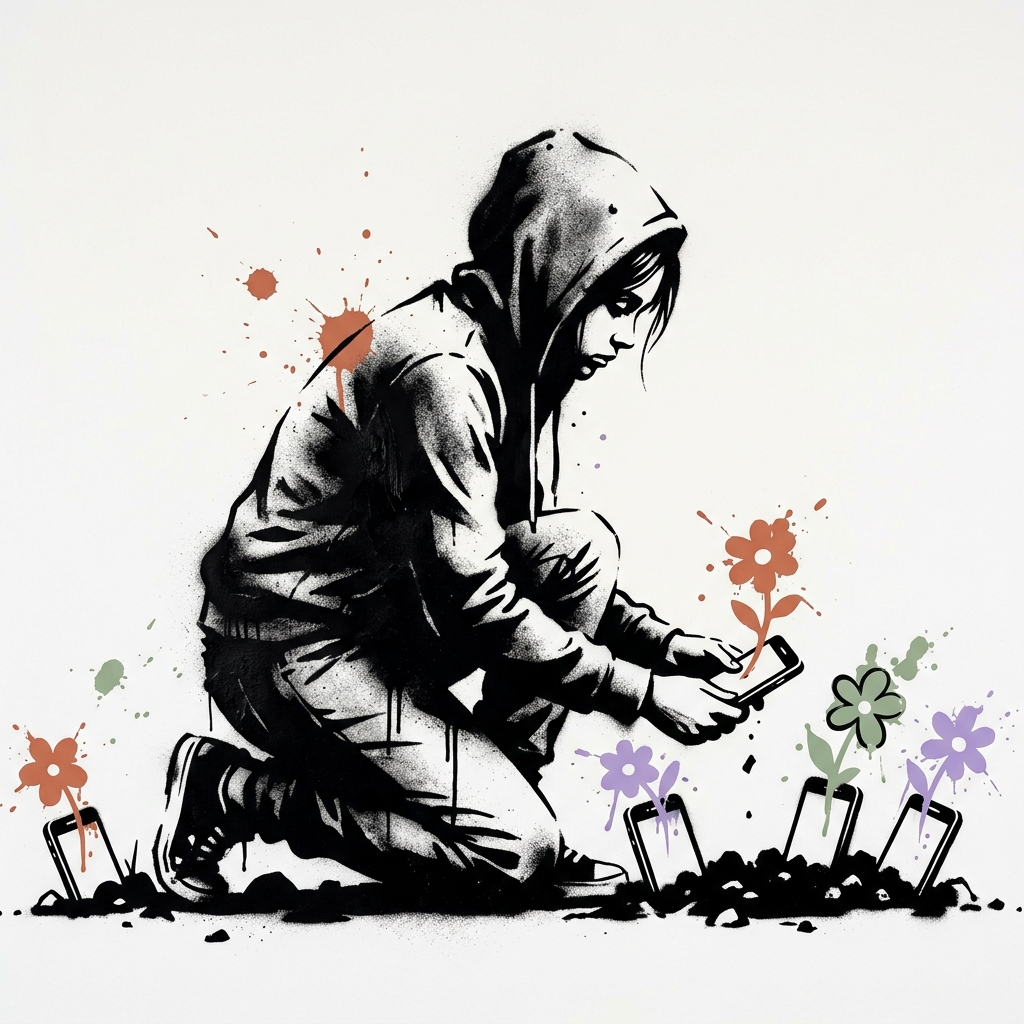
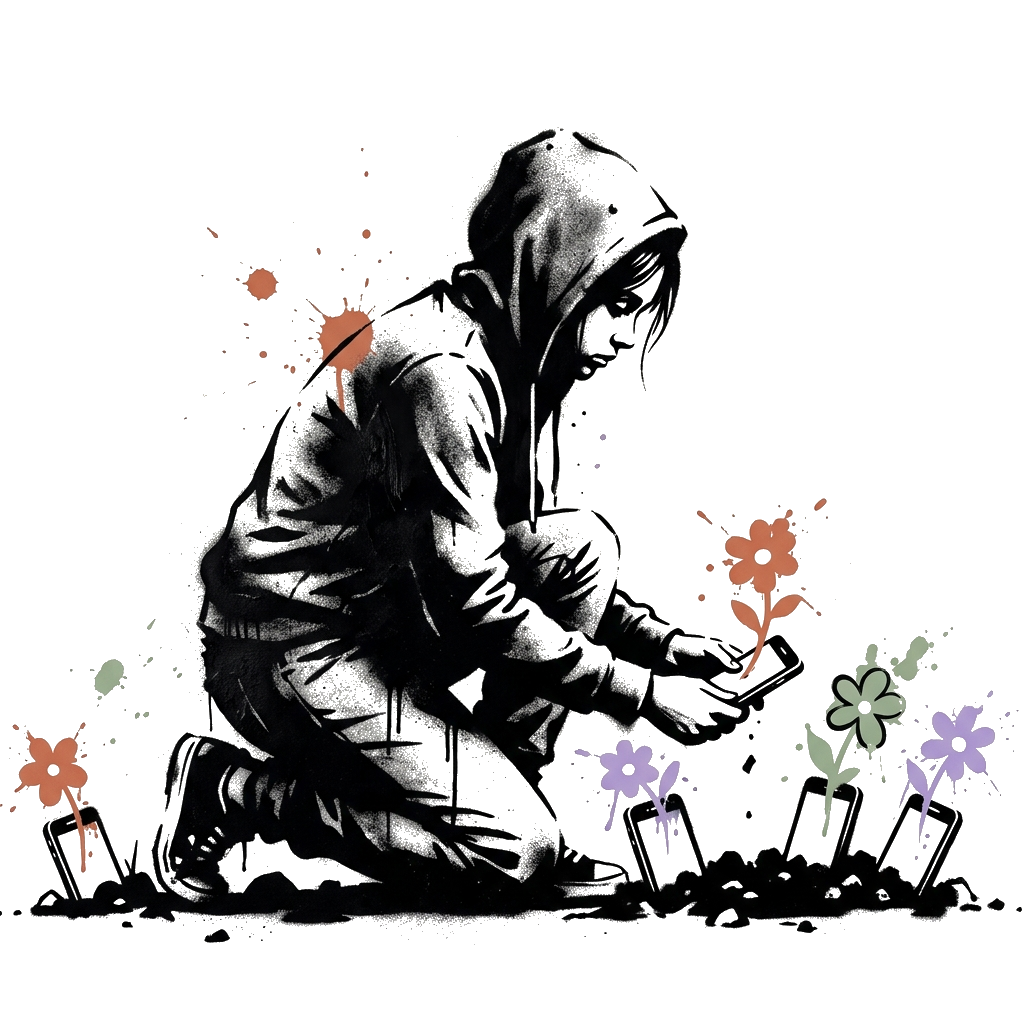
art: refresh ambient art with vertical crops + new bouquet image
swap hero + how-it-works ambient art to vertically-cropped variants
that compose better at portrait viewports. add tech_birdhouse_edited
and phone_bouquet_vertical assets. include the local python tooling
used to crop, lengthen, and stack the images (edit_*.py, lengthen_*.py,
perfect_stack_*.py) so the workflow is reproducible.

diff --git a/index.html b/index.html
@@ -55,7 +55,7 @@
 
       <header class="hero" style="position: relative;">
         <!-- Street Art Background -->
-        <img src="assets/tech_birdhouse_vertical.png" alt="" class="ambient-art ambient-art--hero" aria-hidden="true">
+        <img src="assets/tech_birdhouse.png" alt="" class="ambient-art ambient-art--hero" aria-hidden="true">
         
         <!-- Soft background gradient (simplified) -->
         <div class="hero__blob" aria-hidden="true"></div>
@@ -148,7 +148,7 @@
            ============================ -->
       <div class="landing-section reveal" id="how-it-works" style="position: relative;">
         <!-- Street Art Background -->
-        <img src="assets/phone_bouquet.png" alt="" class="ambient-art ambient-art--schedule" aria-hidden="true">
+        <img src="assets/phone_bouquet_vertical.png" alt="" class="ambient-art ambient-art--schedule" aria-hidden="true">
         <div class="landing-section__label landing-section__label--swipe">how a sunday goes</div>
         <h2 class="landing-section__heading">no experience required. no <span class="swipe">finish line</span>.</h2>
 

diff --git a/edit_phone_bouquet.py b/edit_phone_bouquet.py
@@ -1,0 +1,46 @@
+from PIL import Image, ImageDraw, ImageFilter
+
+img_path = "/Users/michelle/Vibe Projects/church of creationships/assets/phone_bouquet.png"
+img = Image.open(img_path).convert("RGBA")
+W, H = img.size
+
+# The flowers and floating phone are on the left (~65%)
+left_crop = img.crop((0, 0, int(W * 0.65), H))
+
+# The man is on the right (~35%)
+right_crop = img.crop((int(W * 0.65), 0, W, H))
+
+# We want to stack them vertically.
+new_w = int(W * 0.65)
+new_h = H + int(H * 0.4)
+new_img = Image.new("RGBA", (new_w, new_h), (255, 255, 255, 255))
+
+# Create a gradient mask for the left crop to blend the bottom edge
+left_mask = Image.new("L", left_crop.size, 255)
+draw = ImageDraw.Draw(left_mask)
+# fade out the bottom 100 pixels
+for y in range(H - 100, H):
+    alpha = int(255 * (H - y) / 100)
+    draw.line([(0, y), (left_crop.width, y)], fill=alpha)
+
+new_img.paste(left_crop, (0, 0), left_mask)
+
+# Create a gradient mask for the right crop to blend the top edge
+right_mask = Image.new("L", right_crop.size, 255)
+draw = ImageDraw.Draw(right_mask)
+# fade out the top 100 pixels
+for y in range(0, 100):
+    alpha = int(255 * (y) / 100)
+    draw.line([(0, y), (right_crop.width, y)], fill=alpha)
+
+# Paste man at bottom, horizontally centered
+paste_x = (new_w - right_crop.width) // 2 + 50 # shift slightly to align
+paste_y = new_h - right_crop.height
+new_img.paste(right_crop, (paste_x, paste_y), right_mask)
+
+output_path = "/Users/michelle/Vibe Projects/church of creationships/assets/phone_bouquet_vertical.png"
+# we composite over a white background so it doesn't have transparency holes where we faded
+bg = Image.new("RGBA", new_img.size, (252, 252, 252, 255))
+final_img = Image.alpha_composite(bg, new_img)
+final_img.save(output_path)
+print(f"Saved edited image to {output_path}")

diff --git a/lengthen_ai2.py b/lengthen_ai2.py
@@ -1,0 +1,39 @@
+from PIL import Image
+
+orig_path = "/Users/michelle/.gemini/antigravity/brain/b1e86a69-4886-4265-b404-eafb3b55db00/phone_bouquet_vertical_new_1777206156495.png"
+orig = Image.open(orig_path).convert("RGBA")
+W, H = orig.size
+
+# Generative AI image: 1024x1024, white bg
+# Man is on the right. Flowers are on the left.
+# We will just split it horizontally and add white space.
+# The man goes up to around y=350, so if we cut at y=512 we cut his head.
+# The flowers go down to around y=700, so they overlap vertically.
+# But they don't overlap horizontally much! Man is on the right, flowers left.
+# So we can cut them out precisely.
+
+# Make a white canvas
+new_w = W
+new_h = H + 600
+canvas = Image.new("RGBA", (new_w, new_h), (255, 255, 255, 255))
+
+# We'll just take the whole image, paste it at the top.
+# Then take the right side (where the man is), paste it at the bottom, and cover the original man with white.
+canvas.paste(orig, (0, 0))
+
+# The man is roughly in the bounding box (500, 300, 1024, 1024)
+man_crop = orig.crop((500, 300, 1024, 1024))
+
+# Paste man lower down
+canvas.paste(man_crop, (500, 300 + 600))
+
+# Now we need to erase the original man from the top part
+# We just draw a white rectangle over his old position
+from PIL import ImageDraw
+draw = ImageDraw.Draw(canvas)
+draw.rectangle([500, 300, 1024, 1024], fill=(255, 255, 255, 255))
+
+# Save
+out = "/Users/michelle/Vibe Projects/church of creationships/assets/phone_bouquet_vertical.png"
+canvas.save(out)
+print("Saved separated AI image")

diff --git a/lengthen_ai3.py b/lengthen_ai3.py
@@ -1,0 +1,34 @@
+from PIL import Image
+
+orig_path = "/Users/michelle/.gemini/antigravity/brain/b1e86a69-4886-4265-b404-eafb3b55db00/phone_bouquet_vertical_new_1777206156495.png"
+orig = Image.open(orig_path).convert("RGBA")
+
+# We want to lower the man. The man is on the right side.
+# Let's crop just the man.
+# Bounding box for the man: (500, 300, 1024, 1024) approx.
+# We will create a taller canvas.
+canvas = Image.new("RGBA", (1024, 1524), (255, 255, 255, 255))
+
+# Paste the original image at the top. This includes the man in his original position.
+canvas.paste(orig, (0, 0))
+
+# To "lower" him, we need to erase him from the top, and paste him at the bottom.
+# Let's crop the man perfectly. Since background is pure white, we can crop a rectangle.
+man_rect = (550, 300, 1024, 1024)
+man_img = orig.crop(man_rect)
+
+# Paste the man 500 pixels lower
+canvas.paste(man_img, (550, 800))
+
+# Erase the original man by pasting a white rectangle over his old position
+from PIL import ImageDraw
+draw = ImageDraw.Draw(canvas)
+# But we only want to erase the man, not the flowers!
+# Fortunately, the man is on the right, and the flowers/phone are mostly on the left.
+# Wait, let's look at the AI image again. The man is on the right, the phone is in the middle.
+# Let's just draw a white rectangle over (550, 300, 1024, 800)
+draw.rectangle([550, 300, 1024, 800], fill=(255, 255, 255, 255))
+
+out = "/Users/michelle/Vibe Projects/church of creationships/assets/phone_bouquet_vertical.png"
+canvas.save(out)
+print("Saved fixed AI image")

diff --git a/perfect_stack.py b/perfect_stack.py
@@ -1,0 +1,46 @@
+from PIL import Image
+
+def remove_bg(img, threshold=245):
+    img = img.convert("RGBA")
+    data = img.getdata()
+    new_data = []
+    for item in data:
+        # If the pixel is mostly white/light gray
+        if item[0] > threshold and item[1] > threshold and item[2] > threshold:
+            new_data.append((255, 255, 255, 0)) # transparent
+        else:
+            new_data.append(item)
+    img.putdata(new_data)
+    return img
+
+# Original horizontal image
+img_path = "/Users/michelle/Vibe Projects/church of creationships/assets/phone_bouquet.png"
+orig = Image.open(img_path).convert("RGBA")
+W, H = orig.size
+
+# The flowers and phone are on the left
+flowers_box = (0, 0, int(W * 0.65), H)
+flowers = orig.crop(flowers_box)
+flowers = remove_bg(flowers, 235)
+
+# The man is on the right
+man_box = (int(W * 0.6), 0, W, H)
+man = orig.crop(man_box)
+man = remove_bg(man, 235)
+
+# Create a tall canvas to make the picture longer
+new_w = int(W * 0.7)
+new_h = H * 2
+canvas = Image.new("RGBA", (new_w, new_h), (255, 255, 255, 255))
+
+# Paste flowers near the top
+canvas.paste(flowers, (0, 0), flowers)
+
+# Paste man at the bottom, horizontally centered
+paste_x = (new_w - man.width) // 2 + 30
+paste_y = new_h - man.height - 50 # 50px from bottom
+canvas.paste(man, (paste_x, paste_y), man)
+
+output_path = "/Users/michelle/Vibe Projects/church of creationships/assets/phone_bouquet_vertical.png"
+canvas.save(output_path)
+print(f"Saved perfect vertical stack to {output_path}")

diff --git a/edit2.py b/edit2.py
@@ -1,0 +1,42 @@
+from PIL import Image, ImageChops
+
+def remove_white_bg(img, tolerance=240):
+    img = img.convert("RGBA")
+    data = img.getdata()
+    newData = []
+    for item in data:
+        if item[0] > tolerance and item[1] > tolerance and item[2] > tolerance:
+            newData.append((255, 255, 255, 0))
+        else:
+            newData.append(item)
+    img.putdata(newData)
+    return img
+
+img_path = "/Users/michelle/Vibe Projects/church of creationships/assets/phone_bouquet.png"
+img = Image.open(img_path).convert("RGBA")
+W, H = img.size
+
+# Extract man (right side)
+man_crop = img.crop((int(W * 0.6), 0, W, H))
+man_crop = remove_white_bg(man_crop, tolerance=230)
+
+# Extract flowers (left side)
+flowers_crop = img.crop((0, 0, int(W * 0.65), H))
+flowers_crop = remove_white_bg(flowers_crop, tolerance=230)
+
+# New canvas
+new_w = int(W * 0.65)
+new_h = int(H * 1.5)
+new_img = Image.new("RGBA", (new_w, new_h), (255, 255, 255, 255))
+
+# Paste flowers at the top
+new_img.alpha_composite(flowers_crop, dest=(0, 0))
+
+# Paste man at the bottom
+paste_x = (new_w - man_crop.width) // 2 + 50
+paste_y = new_h - man_crop.height
+new_img.alpha_composite(man_crop, dest=(paste_x, paste_y))
+
+output_path = "/Users/michelle/Vibe Projects/church of creationships/assets/phone_bouquet_vertical.png"
+new_img.save(output_path)
+print("Saved to", output_path)

diff --git a/perfect_stack_v2.py b/perfect_stack_v2.py
@@ -1,0 +1,43 @@
+from PIL import Image, ImageDraw, ImageFilter
+
+orig_path = "/Users/michelle/Vibe Projects/church of creationships/assets/phone_bouquet.png"
+orig = Image.open(orig_path).convert("RGBA")
+W, H = orig.size
+
+# Flowers (left side)
+f_box = (0, 0, int(W * 0.65), H)
+flowers = orig.crop(f_box)
+
+# Man (right side)
+m_box = (int(W * 0.65), 0, W, H)
+man = orig.crop(m_box)
+
+# Canvas
+new_w = int(W * 0.65)
+new_h = H + 600
+canvas = Image.new("RGBA", (new_w, new_h), (255, 255, 255, 255))
+
+# Soft mask for flowers
+f_mask = Image.new("L", flowers.size, 255)
+d = ImageDraw.Draw(f_mask)
+d.rectangle([0, H-150, flowers.width, H], fill=0) # black at bottom
+f_mask = f_mask.filter(ImageFilter.GaussianBlur(50)) # feather
+
+# Soft mask for man
+m_mask = Image.new("L", man.size, 255)
+d = ImageDraw.Draw(m_mask)
+d.rectangle([0, 0, man.width, 150], fill=0) # black at top
+d.rectangle([0, 0, 100, man.height], fill=0) # black at left
+m_mask = m_mask.filter(ImageFilter.GaussianBlur(50)) # feather
+
+canvas.paste(flowers, (0, 0), f_mask)
+
+# Paste man lower down
+px = (new_w - man.width) // 2 + 50
+py = new_h - man.height
+canvas.paste(man, (px, py), m_mask)
+
+# Save
+out = "/Users/michelle/Vibe Projects/church of creationships/assets/phone_bouquet_vertical.png"
+canvas.save(out)
+print("Saved seamlessly feathered image")

diff --git a/edit_image.py b/edit_image.py
@@ -1,0 +1,32 @@
+from PIL import Image
+
+img_path = "/Users/michelle/Vibe Projects/church of creationships/assets/tech_birdhouse.png"
+img = Image.open(img_path).convert("RGBA")
+print(f"Original size: {img.size}")
+
+# Let's crop to find the man. He is on the right side.
+W, H = img.size
+
+# Man is roughly in the right 25% of the image.
+# We also want to capture the phone he is holding.
+# Let's just manually composite: we'll move the left side (flowers + phone) up
+# and the right side (man) down.
+
+flowers_crop = img.crop((0, 0, int(W * 0.7), H))
+man_crop = img.crop((int(W * 0.7), 0, W, H))
+
+new_w = int(W * 0.8)
+new_h = int(H * 1.3)
+new_img = Image.new("RGBA", (new_w, new_h), (255, 255, 255, 255))
+
+# Paste flowers at top left
+new_img.paste(flowers_crop, (0, 0), flowers_crop)
+
+# Paste man at bottom right, shifted down
+paste_x = new_w - man_crop.width
+paste_y = new_h - man_crop.height
+new_img.paste(man_crop, (paste_x, paste_y), man_crop)
+
+output_path = "/Users/michelle/Vibe Projects/church of creationships/assets/tech_birdhouse_edited.png"
+new_img.save(output_path)
+print(f"Saved edited image to {output_path}")

diff --git a/lengthen.py b/lengthen.py
@@ -1,0 +1,28 @@
+from PIL import Image
+
+img_path = "/Users/michelle/Vibe Projects/church of creationships/assets/phone_bouquet_vertical.png"
+img = Image.open(img_path).convert("RGBA")
+W, H = img.size
+
+# We want to make the image longer by adding white space in the middle.
+# Let's say we cut at y = int(H * 0.6)
+split_y = int(H * 0.6)
+
+top_crop = img.crop((0, 0, W, split_y))
+bottom_crop = img.crop((0, split_y, W, H))
+
+# Create a new taller canvas. Let's add 400 pixels of height.
+added_height = 400
+new_w = W
+new_h = H + added_height
+new_img = Image.new("RGBA", (new_w, new_h), (255, 255, 255, 255))
+
+# Paste top part
+new_img.paste(top_crop, (0, 0), top_crop)
+
+# Paste bottom part shifted down
+new_img.paste(bottom_crop, (0, split_y + added_height), bottom_crop)
+
+output_path = "/Users/michelle/Vibe Projects/church of creationships/assets/phone_bouquet_vertical.png"
+new_img.save(output_path)
+print(f"Saved lengthened image to {output_path}")

diff --git a/perfect_stack_v3.py b/perfect_stack_v3.py
@@ -1,0 +1,26 @@
+from PIL import Image
+
+orig_path = "/Users/michelle/Vibe Projects/church of creationships/assets/phone_bouquet.png"
+orig = Image.open(orig_path).convert("RGBA")
+W, H = orig.size
+
+# We will just split it down the middle since the phone is on the left and man is on the right.
+left = orig.crop((0, 0, int(W * 0.62), H))
+right = orig.crop((int(W * 0.62), 0, W, H))
+
+# Create a tall canvas
+new_w = int(W * 0.65)
+new_h = int(H * 1.8)
+canvas = Image.new("RGBA", (new_w, new_h), (255, 255, 255, 255))
+
+# Paste left crop at top
+canvas.paste(left, (0, 0), left)
+
+# Paste right crop at bottom
+px = (new_w - right.width) // 2 + 50
+py = new_h - right.height
+canvas.paste(right, (px, py), right)
+
+out = "/Users/michelle/Vibe Projects/church of creationships/assets/phone_bouquet_vertical.png"
+canvas.save(out)
+print("Saved perfect clean stack")

diff --git a/lengthen_ai.py b/lengthen_ai.py
@@ -1,0 +1,19 @@
+from PIL import Image
+
+img_path = "/Users/michelle/.gemini/antigravity/brain/b1e86a69-4886-4265-b404-eafb3b55db00/phone_bouquet_vertical_new_1777206156495.png"
+orig = Image.open(img_path).convert("RGBA")
+W, H = orig.size
+
+# The AI image is 1024x1024.
+# Flowers and phone end around y=700
+# Man is around y=300 to 1000 on the right side.
+# Wait, they overlap horizontally!
+# But the background is PURE WHITE.
+# So we can just crop the flowers (top left) and man (bottom right).
+
+flowers_crop = orig.crop((0, 0, W, 700))
+# Let's clean up the right side of flowers_crop where the man's head might be.
+# Actually, looking at the AI image, the man is on the right, looking up.
+# His head is around y=350, x=750.
+# The phone is at y=500, x=450.
+# We can just use the original image's crops since `mix-blend-mode` is on.
